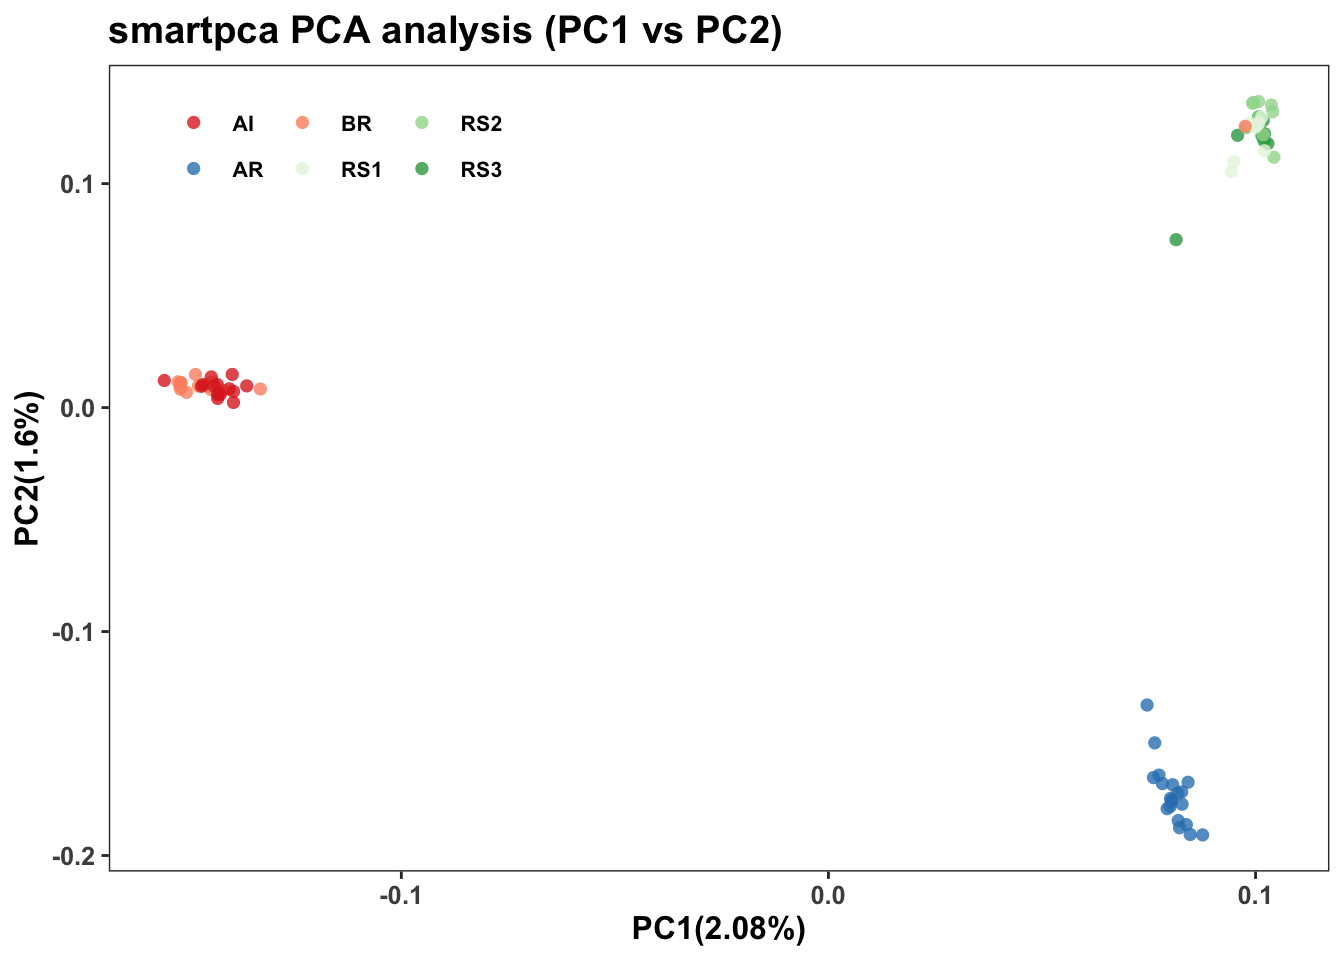
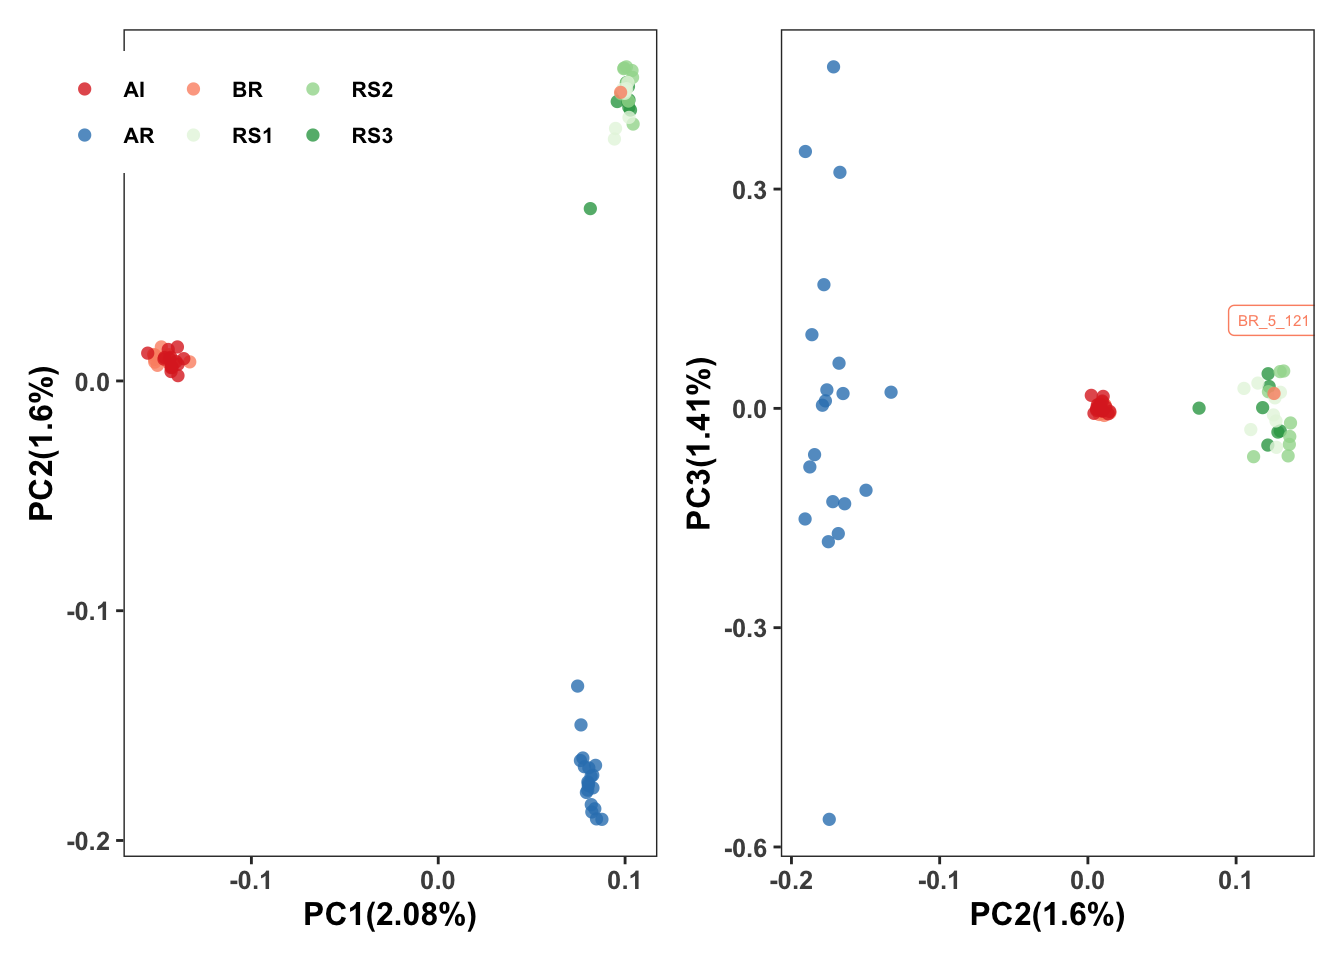
Remove pointless titles, identify outlying sample in PCA

diff --git a/05.population_structure.md b/05.population_structure.md
@@ -46,7 +46,7 @@ smartpca with default parameters.
 
 <div class="figure">
 
-<img src="05.population_structure_files/figure-gfm/smartpca-1.png" alt="Two plots depict the first vs second principal components (PC1 vs PC2) and PC2 vs PC3, which stratified by sample site location (red-like dots: Inshore, green-like dots from south offshore, blue dots: north offshore)." width="50%" /><img src="05.population_structure_files/figure-gfm/smartpca-2.png" alt="Two plots depict the first vs second principal components (PC1 vs PC2) and PC2 vs PC3, which stratified by sample site location (red-like dots: Inshore, green-like dots from south offshore, blue dots: north offshore)." width="50%" />
+<img src="05.population_structure_files/figure-gfm/smartpca-1.png" alt="Two plots depict the first vs second principal components (PC1 vs PC2) and PC2 vs PC3, which stratified by sample site location (red-like dots: Inshore, green-like dots from south offshore, blue dots: north offshore)." width="100%" />
 <p class="caption">
 Two plots depict the first vs second principal components (PC1 vs PC2)
 and PC2 vs PC3, which stratified by sample site location (red-like dots:
@@ -63,6 +63,11 @@ tightly congregated compared to two offshore groups. Therefore, our
 samples from six locations form three clusters which correspond to three
 geographic regions we called inshore, offshore north, and offshore
 south.
+
+This analysis revealed that one sample from Beagle Reef (inshore),
+`BR_5_121` had offshore ancestry despite being collected from inshore.
+We excluded this sample from subsequent analyses of demography and
+selection.
 
 ### PC loadings
 
